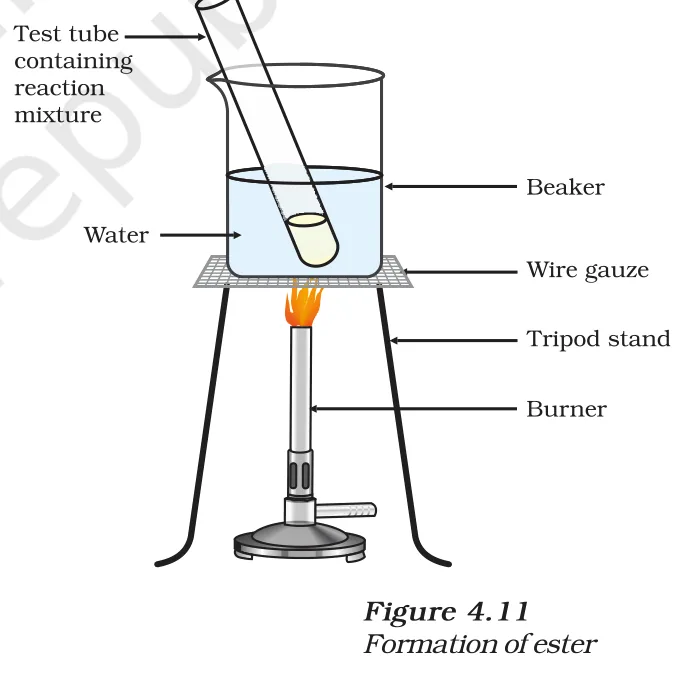
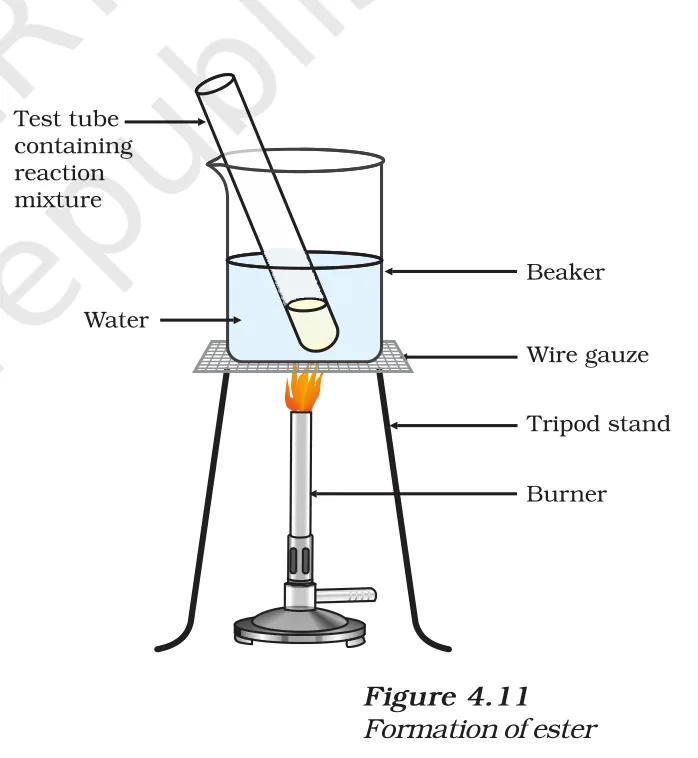
fix(figures): SOLUTION-FIGS-1 PR-3 - re-crop Fig 4.11 with the whole test tube; drop MNM-M03 (verifier FAIL: its step asks to label the ionic bond)

diff --git a/lazytopper/src/diagrams/registry/solutionFigureCrops.pins.test.tsx b/lazytopper/src/diagrams/registry/solutionFigureCrops.pins.test.tsx
@@ -75,7 +75,6 @@ const PINNED: ReadonlyArray<readonly [string, string | undefined, string, string
   ["CARB-EXMPLR-4-LONG-005", undefined, `${CARB}ncert-fig-4-11-ester-formation.webp`, "Official figure: NCERT Class 10 Science, Fig. 4.11"],
   ["SCQ-S-CARB-028", "cyclohexane", `${CARB}ncert-fig-4-9-cyclohexane.webp`, "Official figure: NCERT Class 10 Science, Fig. 4.9 — cyclohexane"],
   ["SCQ-S-CARB-028", "benzene", `${CARB}ncert-fig-4-10-benzene.webp`, "Official figure: NCERT Class 10 Science, Fig. 4.10 — benzene"],
-  ["MNM-M03", undefined, `${MET}ncert-fig-3-5-sodium-chloride.webp`, "Official figure: NCERT Class 10 Science, Fig. 3.5"],
   ["CR2-049", "(a) electron transfer", `${MET}ncert-fig-3-5-sodium-chloride.webp`, "Official figure: NCERT Class 10 Science, Fig. 3.5 — (a) electron transfer"],
   ["METAL-EXMPLR-3-LONG-004", "(ii) electrolytic refining", `${MET}ncert-fig-3-12-electrolytic-refining.webp`, "Official figure: NCERT Class 10 Science, Fig. 3.12 — (ii) electrolytic refining"],
 ];
@@ -83,11 +82,11 @@ const PINNED: ReadonlyArray<readonly [string, string | undefined, string, string
 const key = (q: string, part: string | undefined, file: string) => `${q} | ${part ?? "-"} | ${file}`;
 
 describe("solution-figure crop bindings are pinned (FU-1038-PIN-BINDINGS)", () => {
-  it("the registry holds EXACTLY the 51 pinned (questionId, part, filePath) tuples", () => {
+  it("the registry holds EXACTLY the 50 pinned (questionId, part, filePath) tuples", () => {
     const actual = SOLUTION_FIGURE_CROPS.map((c) => key(c.questionId, c.part, c.filePath)).sort();
     const expected = PINNED.map(([q, part, file]) => key(q, part, file)).sort();
     expect(actual).toEqual(expected);
-    expect(SOLUTION_FIGURE_CROPS).toHaveLength(51);
+    expect(SOLUTION_FIGURE_CROPS).toHaveLength(50);
   });
 
   it.each(PINNED.map(([q, part, file, caption]) => ({ q, part, file, caption })))(

diff --git a/lazytopper/src/diagrams/registry/solutionFigureCrops.ts b/lazytopper/src/diagrams/registry/solutionFigureCrops.ts
@@ -51,7 +51,8 @@
  * PYQ-S-CARB-003 (a)(i) (Fig. 4.8 (b) draws both C4H10 isomers), MNM2-047 (no NCERT figure of
  * galvanised iron), METAL-NCERT-3-LONG-001 / SCQ-S-METAL-040 / LTG-S-METAL-290 (Na2O, MgO,
  * CaCl2, CaO: NCERT draws NaCl and MgCl2 only), CBE-S-MNM-D-001 (alumina electrolysis: no
- * NCERT figure).
+ * NCERT figure), MNM-M03 (its step asks to label the ionic bond; Fig. 3.5 does not; verifier
+ * FAIL 2026-10-11).
  */
 import type { CropFigureBinding } from "./computedFigureTypes";
 
@@ -584,16 +585,7 @@ export const SOLUTION_FIGURE_CROPS: CropFigureBinding[] = [
     eyeConfirm: "asked: compare benzene and cyclohexane by drawing them; answer: benzene has 3 double bonds; Fig. 4.10 draws them",
     confirmedBy: BY_D,
   },
-  {
-    kind: "crop",
-    questionId: "MNM-M03",
-    slot: "solution",
-    filePath: `${MET_DIR}ncert-fig-3-5-sodium-chloride.webp`,
-    alt: "Formation of sodium chloride: Na (2,8,1) loses an electron to Cl (2,8,7), shown with dots and crosses, giving Na+ and Cl- ions",
-    source: { file: NCERT_MET, page: 11, figure: "NCERT Class 10 Science, Fig. 3.5" },
-    eyeConfirm: "asked: formation of NaCl from sodium and chlorine atoms with electron dot structures; answer: Na gives its one valence electron to Cl (7), forming Na+ and Cl-; Fig. 3.5 draws exactly that transfer",
-    confirmedBy: BY_D,
-  },
+
   {
     kind: "crop",
     questionId: "CR2-049",
